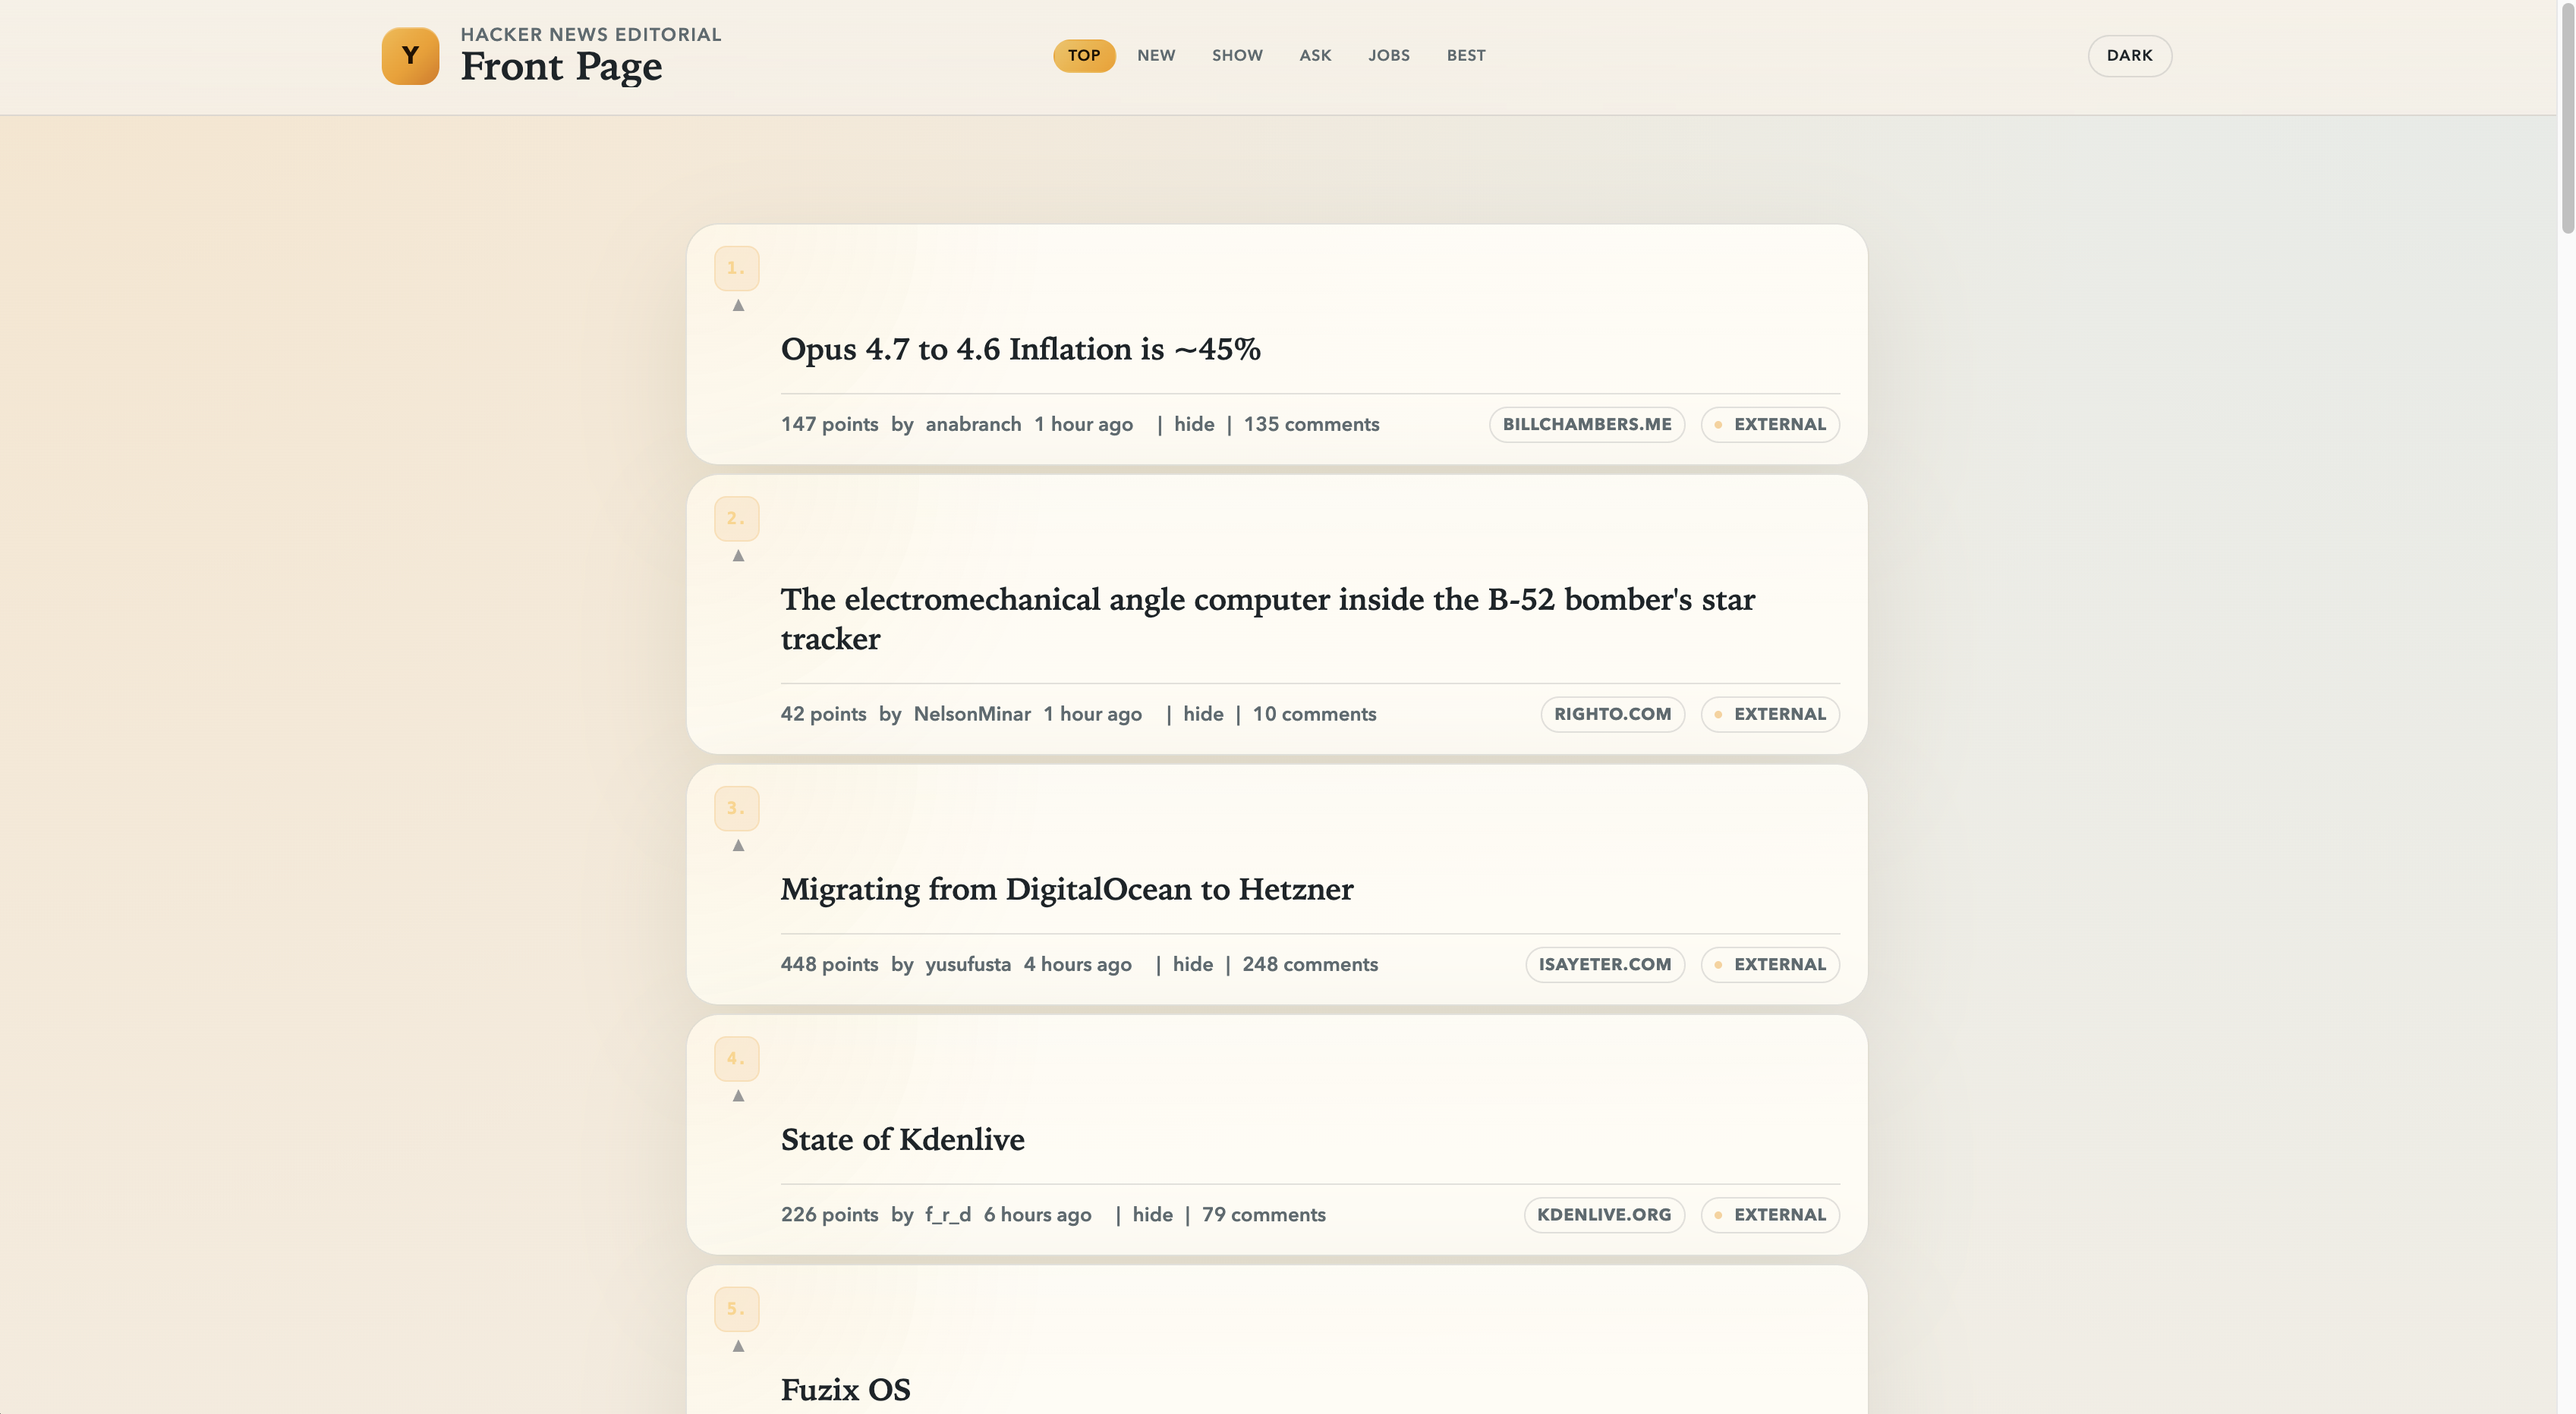
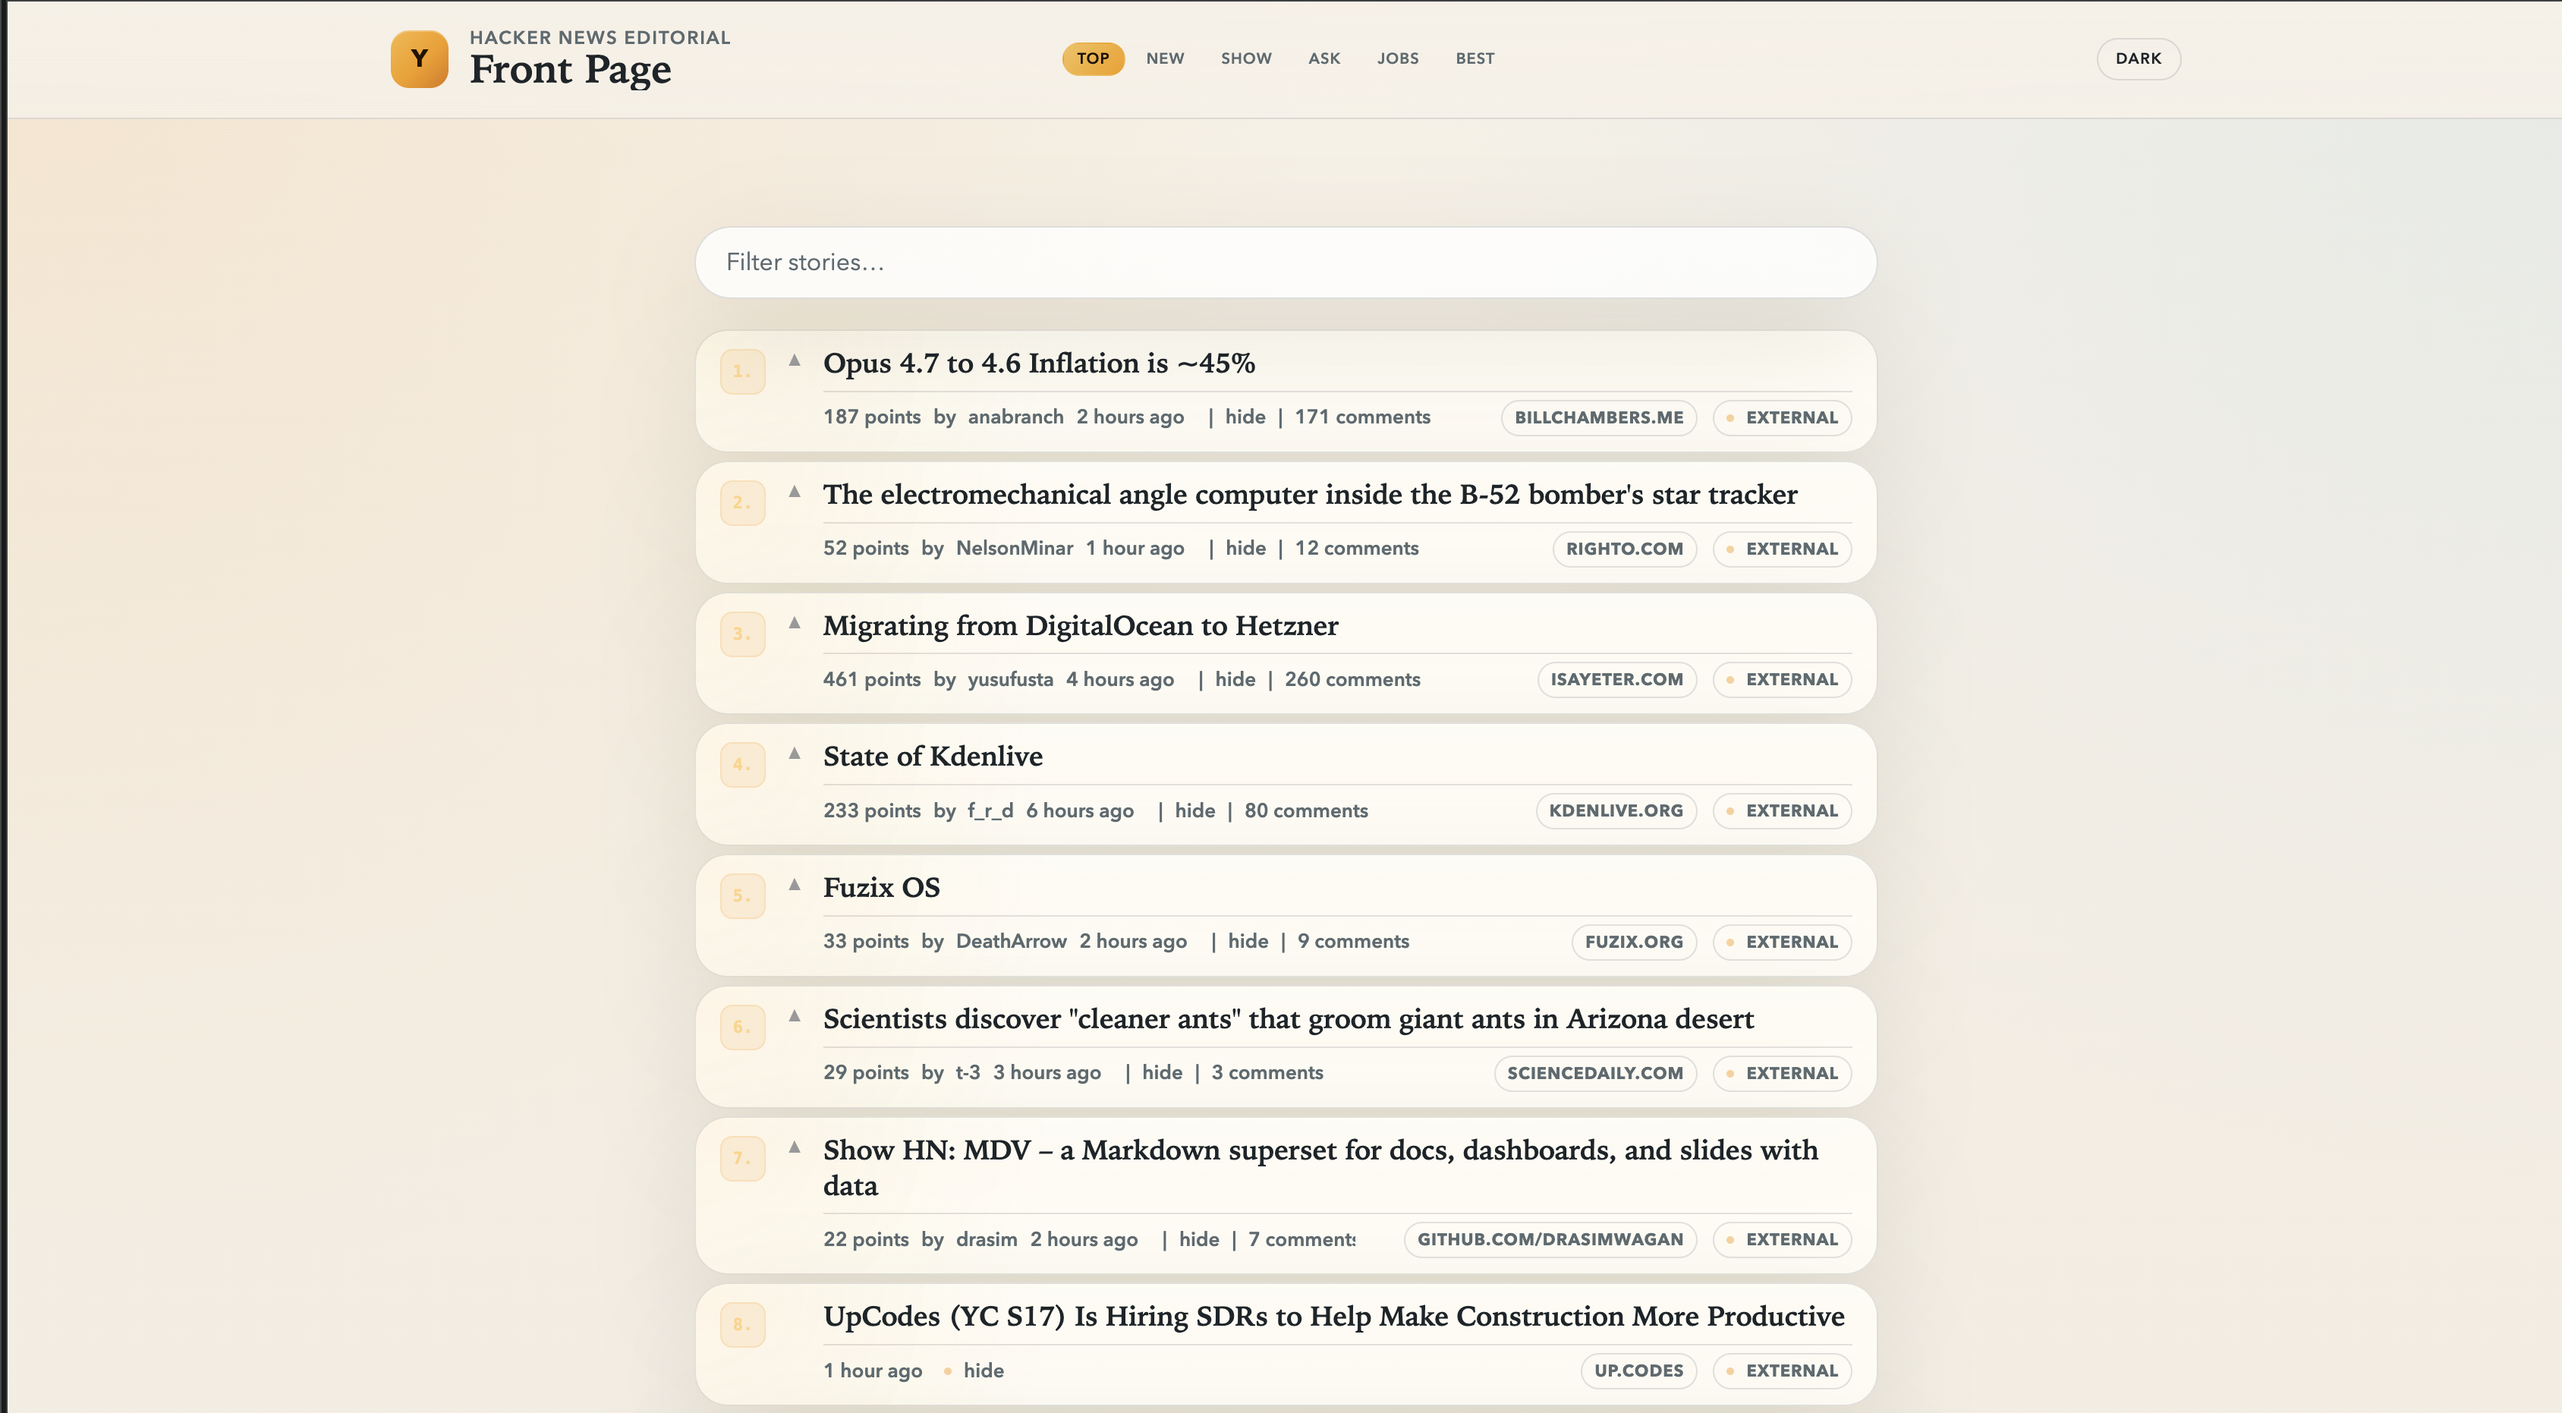
Fix card layout: rank badge left of title, tighter padding
Replace display:block with flex-row on .athing so rank badge sits
beside the title instead of stacking above it. Update screenshot.

diff --git a/src/content.js b/src/content.js
@@ -351,10 +351,13 @@
       }
 
       body.${LISTING_CLASS} .athing {
-        display: block !important;
+        display: flex !important;
+        flex-direction: row;
+        align-items: flex-start;
+        gap: 12px;
         max-width: 780px;
         margin: 0 auto !important;
-        padding: 14px 18px !important;
+        padding: 10px 16px !important;
         border: 1px solid var(--hn-line);
         border-radius: 22px;
         background:
@@ -373,15 +376,21 @@
       }
 
       body.${LISTING_CLASS} .athing > td {
-        display: grid !important;
-        grid-template-columns: 32px 1fr;
-        grid-template-rows: auto auto;
-        column-gap: 12px;
-        row-gap: 6px;
+        display: block !important;
         padding: 0 !important;
-        width: 100%;
         box-sizing: border-box;
-        align-items: center;
+      }
+
+      body.${LISTING_CLASS} .athing > td.title:first-child {
+        flex: 0 0 auto;
+        display: flex !important;
+        align-items: flex-start;
+        padding-top: 2px !important;
+      }
+
+      body.${LISTING_CLASS} .athing > td.title:last-child {
+        flex: 1 1 0;
+        min-width: 0;
       }
 
       body.${LISTING_CLASS} .votelinks {
@@ -389,7 +398,6 @@
       }
 
       body.${LISTING_CLASS} span.rank {
-        grid-row: 1 / span 2;
         display: inline-flex !important;
         align-items: center;
         justify-content: center;
@@ -404,7 +412,6 @@
       }
 
       body.${LISTING_CLASS} .titleline {
-        grid-column: 2;
         display: block;
         margin-top: 0;
       }
@@ -412,7 +419,7 @@
       body.${LISTING_CLASS} .titleline > a {
         color: var(--hn-text);
         text-decoration: none;
-        font: 600 20px/1.3 var(--hn-serif);
+        font: 600 18px/1.3 var(--hn-serif);
         letter-spacing: -0.01em;
       }
 
@@ -440,14 +447,13 @@
       }
 
       body.${LISTING_CLASS} .hn-editorial-meta {
-        grid-column: 2;
         display: flex;
         flex-wrap: nowrap;
         align-items: center;
         justify-content: space-between;
         gap: 16px;
-        margin-top: 10px;
-        padding-top: 8px;
+        margin-top: 6px;
+        padding-top: 5px;
         border-top: 1px solid var(--hn-line);
         overflow: hidden;
         color: var(--hn-muted);
@@ -934,13 +940,8 @@
         }
 
         body.${LISTING_CLASS} .athing {
-          padding: 14px 16px !important;
+          padding: 10px 16px !important;
           border-radius: 22px;
-        }
-
-        body.${LISTING_CLASS} .athing > td {
-          grid-template-columns: 46px 1fr;
-          column-gap: 12px;
         }
 
         body.${LISTING_CLASS} span.rank {
@@ -1000,11 +1001,7 @@
         }
 
         body.${LISTING_CLASS} .athing {
-          padding: 14px 14px 12px !important;
-        }
-
-        body.${LISTING_CLASS} .athing > td {
-          grid-template-columns: 1fr;
+          padding: 10px 14px !important;
         }
 
         body.${LISTING_CLASS} .titleline > a {
@@ -1012,14 +1009,12 @@
         }
 
         body.${LISTING_CLASS} span.rank {
-          grid-row: auto;
           width: fit-content;
           min-height: 30px;
           margin-bottom: 2px;
         }
 
         body.${LISTING_CLASS} .hn-editorial-meta {
-          grid-column: auto;
           flex-wrap: wrap;
           align-items: flex-start;
           justify-content: flex-start;
